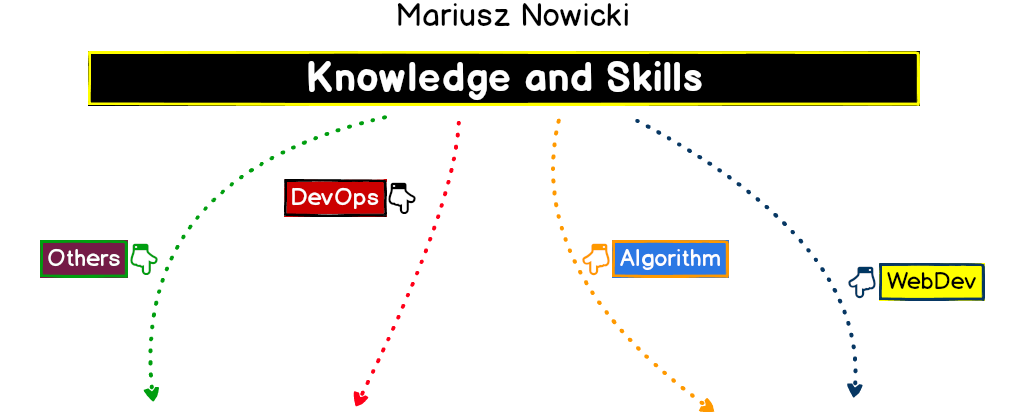
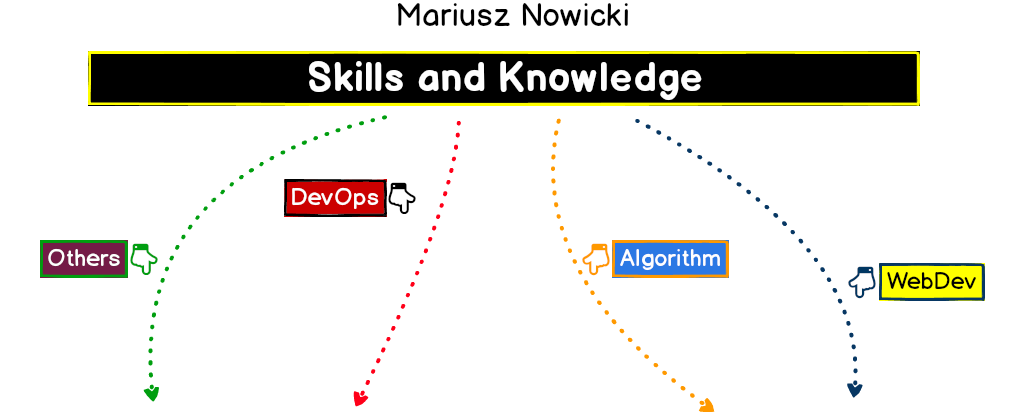
make better menu.png

Changed region(s): [[0.281, 0.1449, 0.6868, 0.2319]]

diff --git a/readme.md b/readme.md
@@ -1,6 +1,6 @@
-# My knowledge with some technology
+# Skils and Knowledge
 
-## DevOps and Algorithm knowledge
+## Menu
 ![MENU](https://github.com/vanowikv13/CV/blob/master/menu.png)
 
 ## DevOps and Algorithm knowledge
